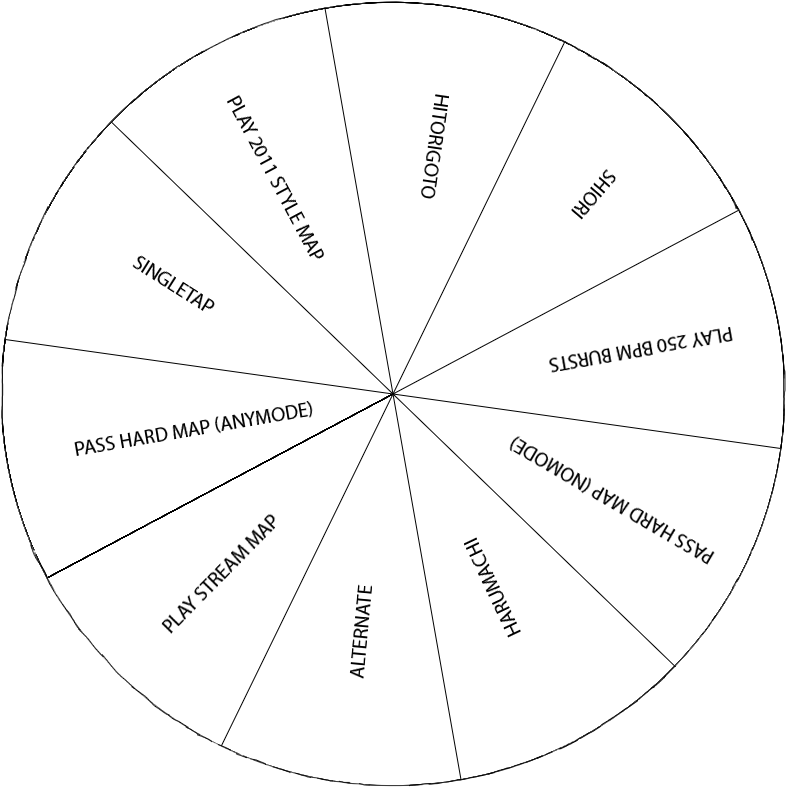
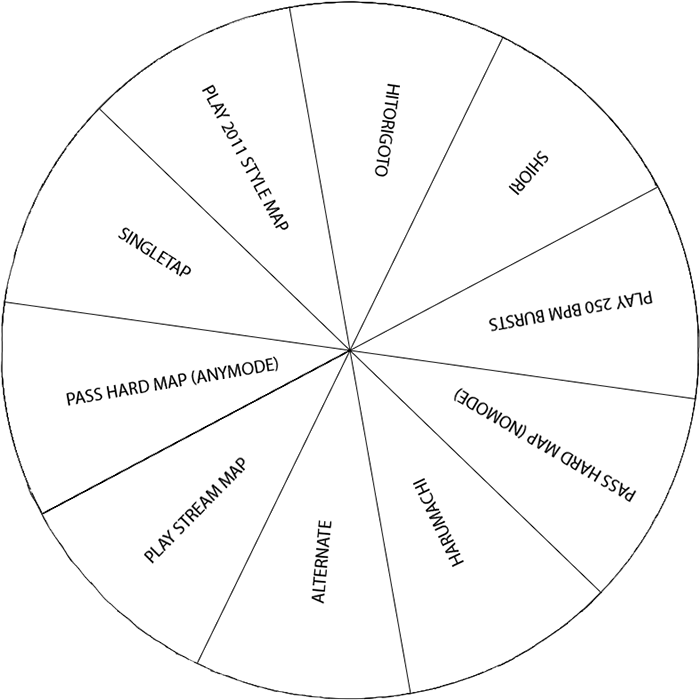
dsa

diff --git a/osuwheel/wheel.css b/osuwheel/wheel.css
@@ -2,20 +2,23 @@
     padding: 0;
     margin: 0;
 }
+body , html {
+    height: 100vh;
+    width: 100%;
+}
 
 .container {
-    margin: auto;
-    margin-top: 3%;
+    margin: 3% 30% 3% 30%;
     width: 40%;
 }
 
 #triangle {
-    margin: 0 0 52% 0;
+    margin: 0 0 calc(50% - 20px) 0;
 }
 
-#wheel {
+#wheel{
+    margin: 0 0 calc(50% - 350px) 0;
     height: 700px;
     width: 700px;
-    margin-bottom: 9.5%;
     transition: transform 1s linear;
 }
